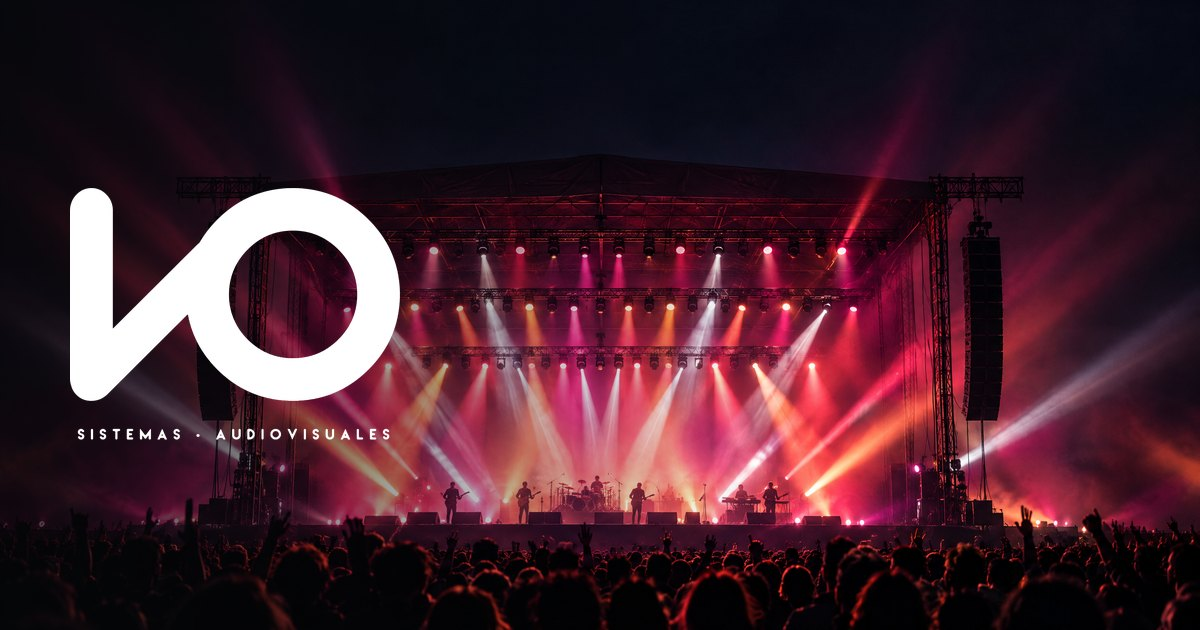
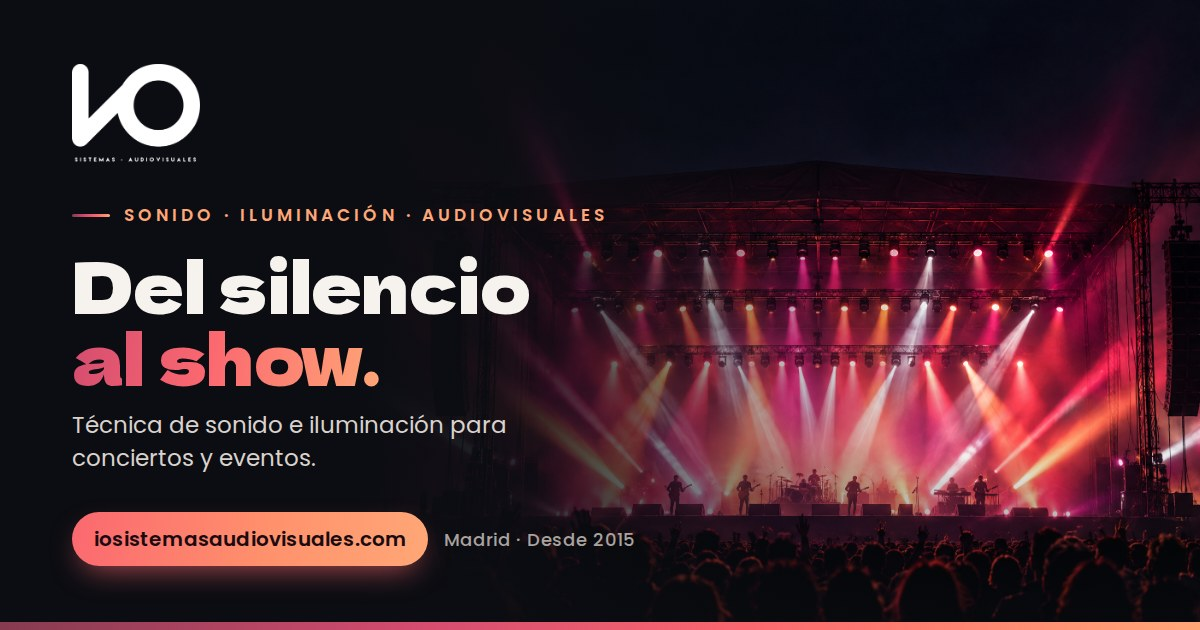
Aviso legal con NIF y domicilio; nueva tarjeta Open Graph
- Aviso legal: NIF E87123456 y domicilio Calle Escorial, 13, 28690 Brunete
  (Madrid), facilitados por la empresa. legalName y taxID en el JSON-LD.
- Nueva og-image.jpg (1200x630): logotipo, «Del silencio al show», lema,
  dominio y degradado de la marca sobre el escenario iluminado.
- Metaetiquetas Open Graph y Twitter completas (tipo, tamaño y texto
  alternativo de la imagen, secure_url) también en aviso-legal.html.

Claude-Session: https://claude.ai/code/session_01BoAj8Xj1T8Zi1zf3PLnsvC

diff --git a/io-sistemas-web/index.html b/io-sistemas-web/index.html
@@ -9,17 +9,24 @@
   <meta name="theme-color" content="#0b0d12">
   <meta name="color-scheme" content="dark">
 
+  <!-- Tarjeta para compartir (Facebook, WhatsApp, LinkedIn, X, Telegram…) -->
   <meta property="og:type" content="website">
   <meta property="og:locale" content="es_ES">
   <meta property="og:site_name" content="IO Sistemas Audiovisuales">
   <meta property="og:title" content="IO Sistemas Audiovisuales · Del silencio al show">
-  <meta property="og:description" content="Sonido, iluminación y técnica audiovisual para eventos en Madrid.">
+  <meta property="og:description" content="Sonido, iluminación y producción técnica para conciertos y eventos en Madrid. Pide tu presupuesto.">
   <meta property="og:url" content="https://www.iosistemasaudiovisuales.com/">
-  <meta property="og:image" content="https://www.iosistemasaudiovisuales.com/assets/img/og-image.jpg">
+  <meta property="og:image" content="https://www.iosistemasaudiovisuales.com/assets/img/og-image.jpg?v=2">
+  <meta property="og:image:secure_url" content="https://www.iosistemasaudiovisuales.com/assets/img/og-image.jpg?v=2">
+  <meta property="og:image:type" content="image/jpeg">
   <meta property="og:image:width" content="1200">
   <meta property="og:image:height" content="630">
-  <meta property="og:image:alt" content="IO Sistemas Audiovisuales: escenario iluminado durante un concierto">
+  <meta property="og:image:alt" content="IO Sistemas Audiovisuales: «Del silencio al show». Sonido, iluminación y audiovisuales para eventos en Madrid.">
   <meta name="twitter:card" content="summary_large_image">
+  <meta name="twitter:title" content="IO Sistemas Audiovisuales · Del silencio al show">
+  <meta name="twitter:description" content="Sonido, iluminación y producción técnica para conciertos y eventos en Madrid. Pide tu presupuesto.">
+  <meta name="twitter:image" content="https://www.iosistemasaudiovisuales.com/assets/img/og-image.jpg?v=2">
+  <meta name="twitter:image:alt" content="IO Sistemas Audiovisuales: «Del silencio al show». Sonido, iluminación y audiovisuales para eventos en Madrid.">
 
   <link rel="icon" href="favicon.ico" sizes="any">
   <link rel="icon" type="image/png" sizes="32x32" href="assets/img/favicon-32.png">
@@ -48,13 +55,15 @@
     "@type": "LocalBusiness",
     "name": "IO Sistemas Audiovisuales",
     "alternateName": "I/O Sistemas Audiovisuales",
+    "legalName": "I/O Sistemas Audiovisuales C.B.",
+    "taxID": "E87123456",
     "description": "Sonido, iluminación y técnica audiovisual para eventos.",
     "url": "https://www.iosistemasaudiovisuales.com/",
     "email": "info@iosistemasaudiovisuales.com",
     "telephone": "+34 630 90 46 49",
     "foundingDate": "2015",
     "logo": "https://www.iosistemasaudiovisuales.com/assets/img/logo-io-color.png",
-    "image": "https://www.iosistemasaudiovisuales.com/assets/img/og-image.jpg",
+    "image": "https://www.iosistemasaudiovisuales.com/assets/img/og-image.jpg?v=2",
     "address": {
       "@type": "PostalAddress",
       "addressRegion": "Madrid",

diff --git a/io-sistemas-web/aviso-legal.html b/io-sistemas-web/aviso-legal.html
@@ -7,6 +7,19 @@
   <meta name="description" content="Aviso legal, política de privacidad y cookies del sitio web de IO Sistemas Audiovisuales.">
   <meta name="robots" content="noindex, follow">
   <meta name="theme-color" content="#0b0d12">
+  <link rel="canonical" href="https://www.iosistemasaudiovisuales.com/aviso-legal.html">
+  <meta property="og:type" content="website">
+  <meta property="og:locale" content="es_ES">
+  <meta property="og:site_name" content="IO Sistemas Audiovisuales">
+  <meta property="og:title" content="Aviso legal y privacidad · IO Sistemas Audiovisuales">
+  <meta property="og:description" content="Aviso legal, protección de datos y cookies del sitio web de IO Sistemas Audiovisuales.">
+  <meta property="og:url" content="https://www.iosistemasaudiovisuales.com/aviso-legal.html">
+  <meta property="og:image" content="https://www.iosistemasaudiovisuales.com/assets/img/og-image.jpg?v=2">
+  <meta property="og:image:type" content="image/jpeg">
+  <meta property="og:image:width" content="1200">
+  <meta property="og:image:height" content="630">
+  <meta property="og:image:alt" content="IO Sistemas Audiovisuales: «Del silencio al show».">
+  <meta name="twitter:card" content="summary_large_image">
   <link rel="icon" href="favicon.ico" sizes="any">
   <link rel="icon" type="image/png" sizes="32x32" href="assets/img/favicon-32.png">
   <link rel="apple-touch-icon" href="assets/img/apple-touch-icon.png">
@@ -33,7 +46,8 @@
       <p>En cumplimiento de la Ley 34/2002, de 11 de julio, de servicios de la sociedad de la información y de comercio electrónico (LSSI-CE), se informa de los datos del titular de este sitio web:</p>
       <ul>
         <li><strong>Titular:</strong> I/O Sistemas Audiovisuales C.B.</li>
-        <li><strong>Domicilio:</strong> Brunete (Madrid), España</li>
+        <li><strong>NIF:</strong> E87123456</li>
+        <li><strong>Domicilio:</strong> Calle Escorial, 13, 28690 Brunete (Madrid), España</li>
         <li><strong>Correo electrónico:</strong> <a href="mailto:info@iosistemasaudiovisuales.com">info@<wbr>iosistemasaudiovisuales.com</a></li>
         <li><strong>Teléfono:</strong> <a href="tel:+34630904649">+34 630 90 46 49</a></li>
         <li><strong>Sitio web:</strong> www.iosistemasaudiovisuales.com</li>

diff --git a/io-sistemas-web/README.md b/io-sistemas-web/README.md
@@ -30,7 +30,7 @@ También se puede abrir `index.html` con doble clic, pero algunas funciones del 
 
 También funciona con **«reducir movimiento»** activado (se muestra todo el contenido sin película), en pantallas muy bajas o con mucho zoom (texto apilado) y **sin JavaScript** (el formulario usa `mailto:` directamente).
 
-Incluye `robots.txt`, `sitemap.xml`, `favicon.ico`, datos estructurados (JSON-LD) e imagen para compartir en redes (`og-image.jpg`).
+Incluye `robots.txt`, `sitemap.xml`, `favicon.ico`, datos estructurados (JSON-LD), `.htaccess` para Apache y una tarjeta Open Graph/Twitter de 1200×630 (`assets/img/og-image.jpg`), que es la que aparece al compartir el enlace en WhatsApp, Facebook, LinkedIn, X o Telegram.
 
 ## Marca
 
@@ -69,7 +69,7 @@ Se usaron solo datos verificables. Las fuentes:
 
 ## Pendiente de confirmar por la empresa
 
-- **Aviso legal:** falta el NIF y la dirección completa del titular. Se añaden en el apartado «1. Titular del sitio web» de `aviso-legal.html` (art. 10 de la LSSI). La base de datos de eInforma recoge «I/O SISTEMAS AUDIOVISUALES C.B.» en Brunete (Madrid); hay que confirmar que es el titular.
+- **NIF del aviso legal:** se ha puesto el facilitado por la empresa (E87123456), pero no cuadra con el dígito de control de los NIF de entidades: con esos dígitos, el control correcto sería 1. Conviene revisarlo por si hay una errata.
 - **Teléfono:** se ha publicado el de Facebook. Ese mismo número figura en Páginas Amarillas para otro negocio, así que conviene confirmar que sigue siendo el de contacto.
 - **Textos de servicios, tipos de evento y proceso:** son descriptivos y no incluyen cifras, clientes ni garantías inventadas. Las fuentes públicas solo documentan conciertos y música en directo. Conviene confirmar los tipos de evento (bodas, empresa, teatro…) y los servicios que queréis destacar.
 - **Nitidez de la película en móviles y tablets de alta densidad:** la película es 720p. Para máxima nitidez se puede generar otra versión vertical a 1080×1920 (requiere créditos de Higgsfield; a día de hoy quedan ~2).
